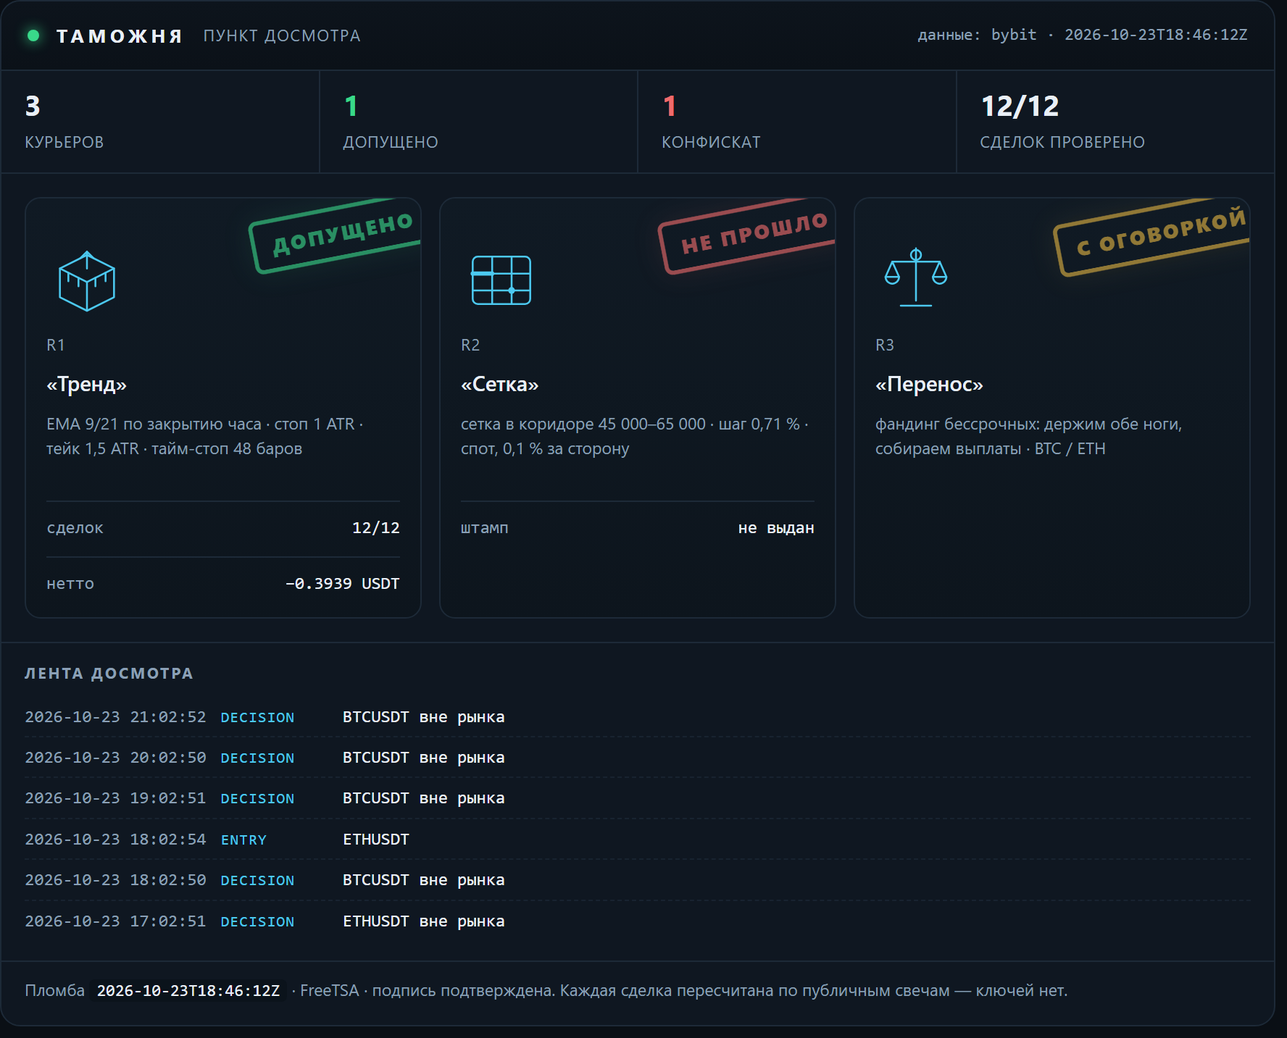
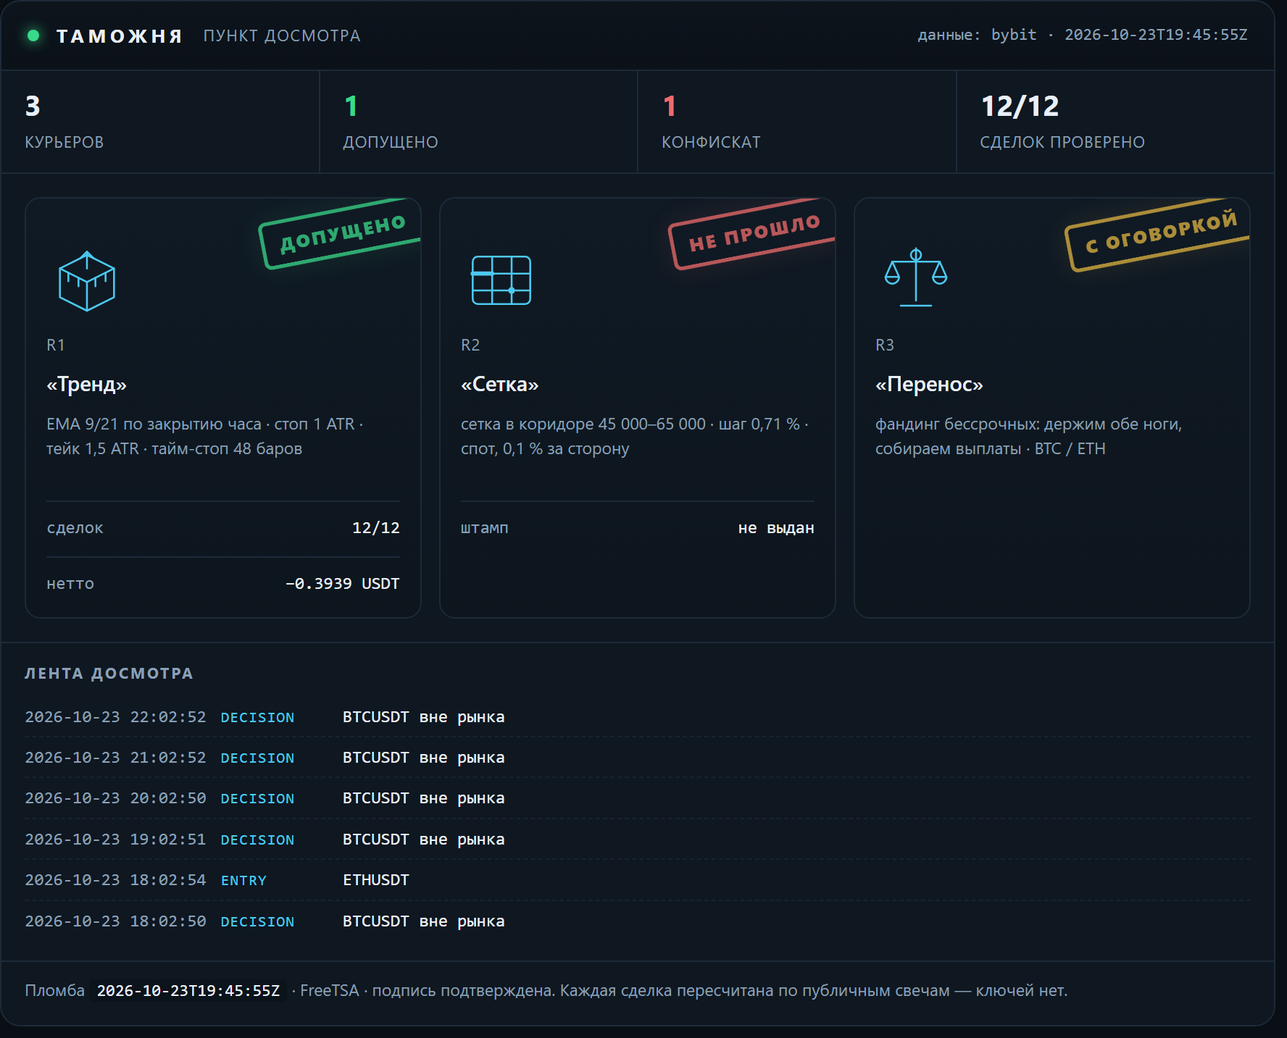
lab: таможня — свежие числа досмотра

diff --git a/docs/customs.html b/docs/customs.html
@@ -16,7 +16,7 @@
   <h1><a href="index.html">Gramwright Lab</a></h1>
   <p>Журнал проверки торговых гипотез: что проверяли, что вышло по факту, сколько съели издержки. Числа берутся из журнала стенда. Не инвестиционная рекомендация.</p>
 </header>
-<h1>Таможня</h1><p class="intro">Пункт досмотра заявленных результатов. Стратегии приезжают с грузом обещаний, и каждая проходит проверку по публичным данным биржи: цены существуют, комиссии по тарифу, нетто сходится. Что прошло — получает штамп. Что не прошло — в конфискат, с причиной. Штамп означает «записи подлинные», а не «стратегия прибыльна».</p><p><img src="img/customs.png" alt="Терминал досмотра: три курьера, штампы, лента событий" style="width:100%;height:auto;border:1px solid var(--line);border-radius:10px"></p><p class="c-note">Сверху — тот же терминал, что собирается из журналов: счётчики, эмблемы курьеров, штампы и лента последних событий. Ниже — то же самое текстом, чтобы читалось с телефона и индексировалось поиском.</p><article><h2>R1 «Тренд» <span class="verdict">— <span class="c-ok">допущено</span></span></h2><p><strong>Правило:</strong> EMA 9/21 по закрытию часа · стоп 1 ATR · тейк 1,5 ATR · тайм-стоп 48 баров</p><p><strong>Декларация:</strong> Заявлено до прогона: держать 30 сделок, лимит нотионала 10 % от счёта, стоп дня −1 %. Прибыль не заявлялась — это важно: курьер не обещал доход.</p><p><strong>Проверено по публичным свечам, без ключей:</strong> 12 из 12 сделок. Сумма нетто −0.3939 USDT.</p><ul class="c-chk"><li class="y">BTCUSDT: нетто −0.8746 USDT · комиссии 0.0901 · проверено · с поправкой</li><li class="y">BTCUSDT: нетто −0.5441 USDT · комиссии 0.0896 · проверено</li><li class="y">ETHUSDT: нетто −0.2253 USDT · комиссии 0.0266 · проверено</li><li class="y">ETHUSDT: нетто −0.1513 USDT · комиссии 0.0265 · проверено</li><li class="y">ETHUSDT: нетто +0.1984 USDT · комиссии 0.0262 · проверено</li><li class="y">ETHUSDT: нетто +0.1617 USDT · комиссии 0.0260 · проверено</li><li class="y">ETHUSDT: нетто +0.2645 USDT · комиссии 0.0263 · проверено</li><li class="y">BTCUSDT: нетто +0.6246 USDT · комиссии 0.0897 · проверено</li><li class="y">BTCUSDT: нетто −0.5881 USDT · комиссии 0.0910 · проверено</li><li class="y">ETHUSDT: нетто −0.2403 USDT · комиссии 0.0270 · проверено</li><li class="y">BTCUSDT: нетто +0.6908 USDT · комиссии 0.0908 · проверено</li><li class="y">ETHUSDT: нетто +0.2898 USDT · комиссии 0.0267 · проверено</li></ul><p class="tags">журнал sha256 eaa843d1941163ee… · проверяльщик verify-1</p><p class="c-note">Штамп означает: записи подлинные, а не что стратегия прибыльна. Курьер в минусе, и минус тоже стоит на штампе — иначе это была бы не проверка, а реклама.</p><p class="tags">источник: verify-report.json</p></article><article><h2>R2 «Сетка» <span class="verdict">— <span class="c-bad">не прошло</span></span></h2><p><strong>Правило:</strong> сетка в коридоре 45 000–65 000 · шаг 0,71 % · спот, 0,1 % за сторону</p><p><strong>Декларация:</strong> Заявлено: «44 % урожая уходит бирже в виде комиссий». Кроме того — перевес над простым владением монетой.</p><p><strong>Что сошлось:</strong></p><ul class="c-chk"><li class="y">сами числа пересчитаны и воспроизводятся: коридор 45–65k был активен 23 % всей истории и 28 % последних двух лет</li></ul><p><strong>Что не сошлось:</strong></p><ul class="c-chk"><li class="n">44 % не подтвердилось: при шаге 0,71 % и тарифе 0,1 % комиссия съедает 28,3 % шага. Чтобы получить 44 %, нужен шаг 0,45 % — это около 80 уровней, а не 50</li><li class="n">от урожая доля комиссий 85,5 % за всю историю и 49,6 % за последние два года — тоже не 44 %</li><li class="n">перевес над владением посчитан на тарифе 0,055 %: при нём +1,32 п. п., на розничном 0,1 % — −0,72 п. п. То есть перевес исчезает</li><li class="n">семилетний тест стартовал в сентябре 2019 при биткоине около 10 000 — ниже коридора. Он говорит, что фиксированный коридор не подходит для периода, а не что сетка отстаёт</li></ul><p class="tags">источник: lab_grid.py, пересчёт 17.10.2026</p></article><article><h2>R3 «Перенос» <span class="verdict">— <span class="c-warn">с оговоркой</span></span></h2><p><strong>Правило:</strong> фандинг бессрочных: держим обе ноги, собираем выплаты · BTC / ETH</p><p><strong>Декларация:</strong> Заявлено: около 11,9 % в год от выплат фандинга при просадке выплатной кривой меньше 2 %.</p><p><strong>Что сошлось:</strong></p><ul class="c-chk"><li class="y">выплаты взяты из публичной истории биржи, ключей не нужно: BTC — 7 190 выплат с 25.03.2020, ETH — 6 561 с 21.10.2020</li><li class="y">сумма сходится: +83,4 % и +83,2 % за 6,6 и 6,0 года — те самые ~11,9 % в год</li><li class="y">худшая просадка выплатной кривой: −1,65 % и −1,97 %</li></ul><p><strong>Что не сошлось:</strong></p><ul class="c-chk"><li class="n">оговорка 1: премию сжали — 2021 год дал +38,3 %, 2026 — +1,96 %. Прошлое не повторяется</li><li class="n">оговорка 2: вход-выход стоит около 0,31 %, капитала нужно 1,2 от нотионала, текущий базис −0,082 % против входа</li><li class="n">оговорка 3: риск площадки. История FTX в этой же таблице выглядела так же прилично</li></ul><p class="tags">источник: публичная история фандинга Bybit, замер 17.10.2026</p></article><div class="c-conf"><h3>Конфискат</h3><p><strong>«Сетка»: заявленные 44 % комиссий не подтвердились.</strong> Досмотр показал 28,3 % от шага и 85,5 % от урожая — цифра хуже заявленной по форме, но лучше по смыслу: сетку убивает не размер шага, а то, что урожай почти весь уходит в комиссии. Это и вышло в выпуск — с поправкой, а не с красивой цифрой.</p></div><p class="c-note">Пломба: <code>2026-10-23T18:46:12Z</code> · нотариус FreeTSA · Oct 23 18:46:12 2026 GMT · подпись подтверждена. Манифест скрепляет отчёт проверки, журнал сделок и декларации курьеров: подменишь любую цифру — пломба перестанет сходиться.</p><p class="c-note">Досмотр идёт по публичным минутным свечам и публичной истории фандинга — ключей у проверяющего нет, и он может повторить проверку сам.</p><p class="c-note">Контент образовательный, не является инвестиционной рекомендацией. Торговля связана с риском потери капитала.</p>
+<h1>Таможня</h1><p class="intro">Пункт досмотра заявленных результатов. Стратегии приезжают с грузом обещаний, и каждая проходит проверку по публичным данным биржи: цены существуют, комиссии по тарифу, нетто сходится. Что прошло — получает штамп. Что не прошло — в конфискат, с причиной. Штамп означает «записи подлинные», а не «стратегия прибыльна».</p><p><img src="img/customs.png" alt="Терминал досмотра: три курьера, штампы, лента событий" style="width:100%;height:auto;border:1px solid var(--line);border-radius:10px"></p><p class="c-note">Сверху — тот же терминал, что собирается из журналов: счётчики, эмблемы курьеров, штампы и лента последних событий. Ниже — то же самое текстом, чтобы читалось с телефона и индексировалось поиском.</p><article><h2>R1 «Тренд» <span class="verdict">— <span class="c-ok">допущено</span></span></h2><p><strong>Правило:</strong> EMA 9/21 по закрытию часа · стоп 1 ATR · тейк 1,5 ATR · тайм-стоп 48 баров</p><p><strong>Декларация:</strong> Заявлено до прогона: держать 30 сделок, лимит нотионала 10 % от счёта, стоп дня −1 %. Прибыль не заявлялась — это важно: курьер не обещал доход.</p><p><strong>Проверено по публичным свечам, без ключей:</strong> 12 из 12 сделок. Сумма нетто −0.3939 USDT.</p><ul class="c-chk"><li class="y">BTCUSDT: нетто −0.8746 USDT · комиссии 0.0901 · проверено · с поправкой</li><li class="y">BTCUSDT: нетто −0.5441 USDT · комиссии 0.0896 · проверено</li><li class="y">ETHUSDT: нетто −0.2253 USDT · комиссии 0.0266 · проверено</li><li class="y">ETHUSDT: нетто −0.1513 USDT · комиссии 0.0265 · проверено</li><li class="y">ETHUSDT: нетто +0.1984 USDT · комиссии 0.0262 · проверено</li><li class="y">ETHUSDT: нетто +0.1617 USDT · комиссии 0.0260 · проверено</li><li class="y">ETHUSDT: нетто +0.2645 USDT · комиссии 0.0263 · проверено</li><li class="y">BTCUSDT: нетто +0.6246 USDT · комиссии 0.0897 · проверено</li><li class="y">BTCUSDT: нетто −0.5881 USDT · комиссии 0.0910 · проверено</li><li class="y">ETHUSDT: нетто −0.2403 USDT · комиссии 0.0270 · проверено</li><li class="y">BTCUSDT: нетто +0.6908 USDT · комиссии 0.0908 · проверено</li><li class="y">ETHUSDT: нетто +0.2898 USDT · комиссии 0.0267 · проверено</li></ul><p class="tags">журнал sha256 f51dbc98da05f2dc… · проверяльщик verify-1</p><p class="c-note">Штамп означает: записи подлинные, а не что стратегия прибыльна. Курьер в минусе, и минус тоже стоит на штампе — иначе это была бы не проверка, а реклама.</p><p class="tags">источник: verify-report.json</p></article><article><h2>R2 «Сетка» <span class="verdict">— <span class="c-bad">не прошло</span></span></h2><p><strong>Правило:</strong> сетка в коридоре 45 000–65 000 · шаг 0,71 % · спот, 0,1 % за сторону</p><p><strong>Декларация:</strong> Заявлено: «44 % урожая уходит бирже в виде комиссий». Кроме того — перевес над простым владением монетой.</p><p><strong>Что сошлось:</strong></p><ul class="c-chk"><li class="y">сами числа пересчитаны и воспроизводятся: коридор 45–65k был активен 23 % всей истории и 28 % последних двух лет</li></ul><p><strong>Что не сошлось:</strong></p><ul class="c-chk"><li class="n">44 % не подтвердилось: при шаге 0,71 % и тарифе 0,1 % комиссия съедает 28,3 % шага. Чтобы получить 44 %, нужен шаг 0,45 % — это около 80 уровней, а не 50</li><li class="n">от урожая доля комиссий 85,5 % за всю историю и 49,6 % за последние два года — тоже не 44 %</li><li class="n">перевес над владением посчитан на тарифе 0,055 %: при нём +1,32 п. п., на розничном 0,1 % — −0,72 п. п. То есть перевес исчезает</li><li class="n">семилетний тест стартовал в сентябре 2019 при биткоине около 10 000 — ниже коридора. Он говорит, что фиксированный коридор не подходит для периода, а не что сетка отстаёт</li></ul><p class="tags">источник: lab_grid.py, пересчёт 17.10.2026</p></article><article><h2>R3 «Перенос» <span class="verdict">— <span class="c-warn">с оговоркой</span></span></h2><p><strong>Правило:</strong> фандинг бессрочных: держим обе ноги, собираем выплаты · BTC / ETH</p><p><strong>Декларация:</strong> Заявлено: около 11,9 % в год от выплат фандинга при просадке выплатной кривой меньше 2 %.</p><p><strong>Что сошлось:</strong></p><ul class="c-chk"><li class="y">выплаты взяты из публичной истории биржи, ключей не нужно: BTC — 7 190 выплат с 25.03.2020, ETH — 6 561 с 21.10.2020</li><li class="y">сумма сходится: +83,4 % и +83,2 % за 6,6 и 6,0 года — те самые ~11,9 % в год</li><li class="y">худшая просадка выплатной кривой: −1,65 % и −1,97 %</li></ul><p><strong>Что не сошлось:</strong></p><ul class="c-chk"><li class="n">оговорка 1: премию сжали — 2021 год дал +38,3 %, 2026 — +1,96 %. Прошлое не повторяется</li><li class="n">оговорка 2: вход-выход стоит около 0,31 %, капитала нужно 1,2 от нотионала, текущий базис −0,082 % против входа</li><li class="n">оговорка 3: риск площадки. История FTX в этой же таблице выглядела так же прилично</li></ul><p class="tags">источник: публичная история фандинга Bybit, замер 17.10.2026</p></article><div class="c-conf"><h3>Конфискат</h3><p><strong>«Сетка»: заявленные 44 % комиссий не подтвердились.</strong> Досмотр показал 28,3 % от шага и 85,5 % от урожая — цифра хуже заявленной по форме, но лучше по смыслу: сетку убивает не размер шага, а то, что урожай почти весь уходит в комиссии. Это и вышло в выпуск — с поправкой, а не с красивой цифрой.</p></div><p class="c-note">Пломба: <code>2026-10-23T19:45:55Z</code> · нотариус FreeTSA · Oct 23 19:45:55 2026 GMT · подпись подтверждена. Манифест скрепляет отчёт проверки, журнал сделок и декларации курьеров: подменишь любую цифру — пломба перестанет сходиться.</p><p class="c-note">Досмотр идёт по публичным минутным свечам и публичной истории фандинга — ключей у проверяющего нет, и он может повторить проверку сам.</p><p class="c-note">Контент образовательный, не является инвестиционной рекомендацией. Торговля связана с риском потери капитала.</p>
 <footer class="site">
   Код стенда и аудитора: <a href="https://github.com/XSlaidx/truth-engine">XSlaidx/truth-engine</a>
   &middot; <a href="graveyard.html">кладбище правил</a>
